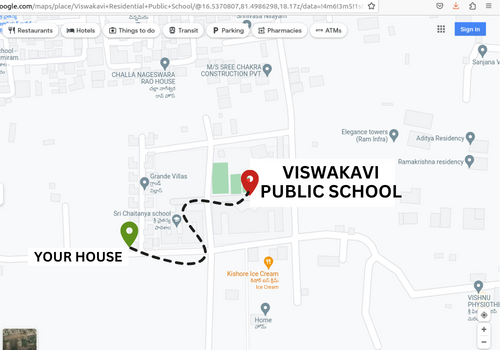
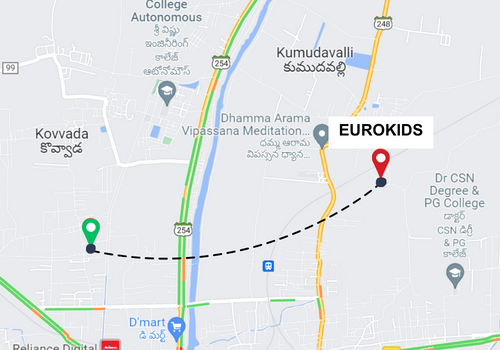
hi

diff --git a/index.html b/index.html
@@ -498,7 +498,7 @@
                                 <small class="me-3"><i class="far fa-user text-primary me-2"></i>John Doe</small>
                                 <small><i class="far fa-calendar-alt text-primary me-2"></i>01 Jan, 2045</small>
                             </div> -->
-                            <h4 class="mb-3">Delivering lunchbox to Viswakavi school</h4><br>
+                            <h4 class="mb-3">Delivering lunchbox to Eurokids school</h4><br>
                             <p>Picking your lunchbox from your home and delivering it to your school.</p>
                             <!-- <a class="text-uppercase" href="">Read More <i class="bi bi-arrow-right"></i></a> -->
                         </div>
